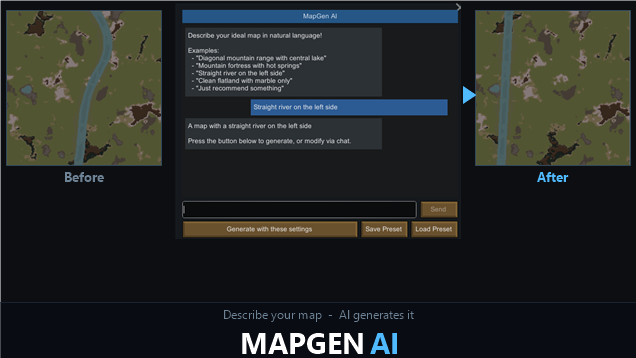
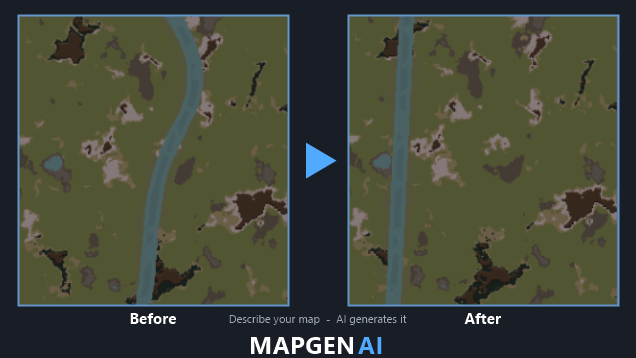
v1.0.1: Settings UI improvements
- Add scrollable model list in settings (max 300px height)
- Fix Gemini pagination to show 3.0/3.1 models
- Add OpenAI error message display when fetch fails
- Expand OpenAI model filter (o4-*, chatgpt-*)
- Gate DebugActions behind #if DEBUG (excluded from Release)
- Update Workshop description with Tips section
- Update Preview.png

diff --git a/mapgen_ai/Source/Core/TextToMapSettings.cs b/mapgen_ai/Source/Core/TextToMapSettings.cs
@@ -31,6 +31,9 @@ namespace MapGenAI
         private bool _showOpenAiList = false;
         private bool _showLocalList = false;
 
+        // 스크롤 위치
+        private Vector2 _modelScrollPos = Vector2.zero;
+
         private bool _isFetchingModels = false;
         private string _fetchStatus = "";
 
@@ -74,24 +77,24 @@ namespace MapGenAI
             listing.GapLine();
 
             if (activeProvider == LLMProvider.Gemini)
-                DrawProviderSection(listing, LLMProvider.Gemini,
+                DrawProviderSection(listing, inRect, LLMProvider.Gemini,
                     ref geminiApiKey, ko ? "Gemini API 키" : "Gemini API Key",
                     ref geminiModel, _geminiModels,
                     ref _showGeminiList);
 
             else if (activeProvider == LLMProvider.OpenAI)
-                DrawProviderSection(listing, LLMProvider.OpenAI,
+                DrawProviderSection(listing, inRect, LLMProvider.OpenAI,
                     ref openAiApiKey, ko ? "OpenAI API 키" : "OpenAI API Key",
                     ref openAiModel, _openAiModels,
                     ref _showOpenAiList);
 
             else if (activeProvider == LLMProvider.Local)
-                DrawLocalSection(listing);
+                DrawLocalSection(listing, inRect);
 
             listing.End();
         }
 
-        private void DrawProviderSection(Listing_Standard listing, LLMProvider provider,
+        private void DrawProviderSection(Listing_Standard listing, Rect inRect, LLMProvider provider,
             ref string apiKey, string apiKeyLabel,
             ref string currentModel, List<string> modelList,
             ref bool showList)
@@ -125,25 +128,48 @@ namespace MapGenAI
                 }
             }
 
-            // 목록 표시
+            // 목록 표시 (스크롤 영역)
             if (showList)
             {
                 if (_isFetchingModels)
                 {
                     listing.Label(L10n.IsKorean() ? "  불러오는 중..." : "  Loading...");
                 }
+                else if (modelList.Count == 0 && !string.IsNullOrEmpty(_fetchStatus))
+                {
+                    listing.Label("  " + _fetchStatus);
+                }
                 else if (modelList.Count > 0)
                 {
+                    float curY = listing.CurHeight;
+                    listing.End();
+
+                    float maxH = inRect.height - curY - 10f;
+                    float scrollH = Mathf.Min(maxH, 300f);
+                    float itemH = 30f;
+                    float contentH = modelList.Count * itemH;
+                    var outRect = new Rect(inRect.x, inRect.y + curY, inRect.width, scrollH);
+                    var viewRect = new Rect(0f, 0f, outRect.width - 16f, contentH);
+
+                    Widgets.BeginScrollView(outRect, ref _modelScrollPos, viewRect);
+                    float y = 0f;
                     foreach (var m in modelList)
                     {
-                        if (listing.RadioButton("  " + m, currentModel == m))
+                        var row = new Rect(0f, y, viewRect.width, itemH);
+                        if (Widgets.RadioButtonLabeled(row, "  " + m, currentModel == m))
                             currentModel = m;
+                        y += itemH;
                     }
+                    Widgets.EndScrollView();
+
+                    // listing 재개 (스크롤 영역 아래부터)
+                    var remainRect = new Rect(inRect.x, outRect.yMax, inRect.width, inRect.height - outRect.yMax + inRect.y);
+                    listing.Begin(remainRect);
                 }
             }
         }
 
-        private void DrawLocalSection(Listing_Standard listing)
+        private void DrawLocalSection(Listing_Standard listing, Rect inRect)
         {
             listing.Label(L10n.IsKorean() ? "로컬 서버 URL" : "Local server URL");
             localBaseUrl = listing.TextEntry(localBaseUrl);
@@ -152,9 +178,9 @@ namespace MapGenAI
             if (_isFetchingModels && _fetchedProvider == LLMProvider.Local)
                 btnText = L10n.IsKorean() ? "불러오는 중..." : "Loading...";
             else if (_showLocalList)
-                btnText = $"▲ 접기 (현재: {localModel})";
+                btnText = L10n.IsKorean() ? $"▲ 접기 (현재: {localModel})" : $"▲ Collapse (current: {localModel})";
             else if (_localModels.Count > 0)
-                btnText = $"▼ 모델 선택 (현재: {localModel})";
+                btnText = L10n.IsKorean() ? $"▼ 모델 선택 (현재: {localModel})" : $"▼ Select model (current: {localModel})";
             else
                 btnText = L10n.IsKorean() ? "모델 목록 불러오기" : "Fetch model list";
 
@@ -175,11 +201,34 @@ namespace MapGenAI
             if (_showLocalList)
             {
                 if (_isFetchingModels)
-                    listing.Label(L10n.IsKorean() ? "  불러오는 중..." : "  Loading...");
-                else foreach (var m in _localModels)
                 {
-                    if (listing.RadioButton("  " + m, localModel == m))
-                        localModel = m;
+                    listing.Label(L10n.IsKorean() ? "  불러오는 중..." : "  Loading...");
+                }
+                else if (_localModels.Count > 0)
+                {
+                    float curY = listing.CurHeight;
+                    listing.End();
+
+                    float maxH = inRect.height - curY - 10f;
+                    float scrollH = Mathf.Min(maxH, 300f);
+                    float itemH = 30f;
+                    float contentH = _localModels.Count * itemH;
+                    var outRect = new Rect(inRect.x, inRect.y + curY, inRect.width, scrollH);
+                    var viewRect = new Rect(0f, 0f, outRect.width - 16f, contentH);
+
+                    Widgets.BeginScrollView(outRect, ref _modelScrollPos, viewRect);
+                    float y = 0f;
+                    foreach (var m in _localModels)
+                    {
+                        var row = new Rect(0f, y, viewRect.width, itemH);
+                        if (Widgets.RadioButtonLabeled(row, "  " + m, localModel == m))
+                            localModel = m;
+                        y += itemH;
+                    }
+                    Widgets.EndScrollView();
+
+                    var remainRect = new Rect(inRect.x, outRect.yMax, inRect.width, inRect.height - outRect.yMax + inRect.y);
+                    listing.Begin(remainRect);
                 }
             }
         }
@@ -236,22 +285,30 @@ namespace MapGenAI
 
         private async Task<List<string>> FetchGeminiModels()
         {
-            var url = $"https://generativelanguage.googleapis.com/v1beta/models?key={geminiApiKey}";
-            var response = await Http.GetStringAsync(url);
             var models = new List<string>();
-            var parts = response.Split('"');
-            for (int i = 0; i < parts.Length - 2; i++)
+            string pageToken = null;
+            do
             {
-                if (parts[i] == "name" && parts[i + 2].StartsWith("models/"))
+                var url = $"https://generativelanguage.googleapis.com/v1beta/models?key={geminiApiKey}&pageSize=100";
+                if (pageToken != null) url += $"&pageToken={pageToken}";
+                var response = await Http.GetStringAsync(url);
+                var parts = response.Split('"');
+                pageToken = null;
+                for (int i = 0; i < parts.Length - 2; i++)
                 {
-                    var name = parts[i + 2].Substring("models/".Length);
-                    if ((name.StartsWith("gemini-") || name.StartsWith("gemma-"))
-                        && !name.Contains("embedding") && !name.Contains("imagen")
-                        && !name.Contains("veo") && !name.Contains("tts")
-                        && !name.Contains("audio"))
-                        models.Add(name);
+                    if (parts[i] == "name" && parts[i + 2].StartsWith("models/"))
+                    {
+                        var name = parts[i + 2].Substring("models/".Length);
+                        if ((name.StartsWith("gemini-") || name.StartsWith("gemma-"))
+                            && !name.Contains("embedding") && !name.Contains("imagen")
+                            && !name.Contains("veo") && !name.Contains("tts")
+                            && !name.Contains("audio"))
+                            models.Add(name);
+                    }
+                    if (parts[i] == "nextPageToken")
+                        pageToken = parts[i + 2];
                 }
-            }
+            } while (pageToken != null);
             return models;
         }
 
@@ -264,8 +321,13 @@ namespace MapGenAI
             var models = new List<string>();
             var parts = json.Split('"');
             for (int i = 0; i < parts.Length - 2; i++)
-                if (parts[i] == "id" && (parts[i + 2].StartsWith("gpt-") || parts[i + 2].StartsWith("o1") || parts[i + 2].StartsWith("o3")))
-                    models.Add(parts[i + 2]);
+                if (parts[i] == "id")
+                {
+                    var id = parts[i + 2];
+                    if (id.StartsWith("gpt-") || id.StartsWith("o1") || id.StartsWith("o3") || id.StartsWith("o4")
+                        || id.StartsWith("chatgpt-"))
+                        models.Add(id);
+                }
             return models.OrderBy(m => m).ToList();
         }
 

diff --git a/mapgen_ai/Source/Patches/WorldInspectPane_Patch.cs b/mapgen_ai/Source/Patches/WorldInspectPane_Patch.cs
@@ -224,7 +224,7 @@ namespace MapGenAI.Patches
         }
     }
 
-    /// <summary>[DebugAction] 인게임 빠른 테스트 버튼</summary>
+#if DEBUG
     public static class TextToMap_DebugActions
     {
         [DebugAction("TextToMap", "대화창 열기", allowedGameStates = AllowedGameStates.Playing)]
@@ -242,11 +242,11 @@ namespace MapGenAI.Patches
                 var response = await client.SendChatAsync(
                     new System.Collections.Generic.List<LLM.ChatMessage>
                     {
-                        new LLM.ChatMessage("user", "안녕하세요, API 연결 테스트입니다. 한 문장으로 응답해주세요.")
+                        new LLM.ChatMessage("user", "API connection test. Reply in one sentence.")
                     },
-                    "당신은 RimWorld 맵 생성 도우미입니다.");
+                    "You are a RimWorld map generation assistant.");
                 LongEventHandler.ExecuteWhenFinished(() =>
-                    Log.Message($"[MapGenAI] API 응답: {response}"));
+                    Log.Message($"[MapGenAI] API response: {response}"));
             });
         }
 
@@ -255,20 +255,20 @@ namespace MapGenAI.Patches
         {
             if (!MapGen.MapGenParams.HasParams)
             {
-                Log.Message("[MapGenAI] 저장된 파라미터 없음");
+                Log.Message("[MapGenAI] No params stored");
                 return;
             }
-            Log.Message($"[MapGenAI] 파라미터: 언덕={MapGen.MapGenParams.Hills}, " +
-                        $"나무={MapGen.MapGenParams.VegetationDensity}, " +
-                        $"강={MapGen.MapGenParams.HasRiver}, " +
-                        $"도로={MapGen.MapGenParams.HasRoads}");
+            Log.Message($"[MapGenAI] Params: hills={MapGen.MapGenParams.Hills}, " +
+                        $"veg={MapGen.MapGenParams.VegetationDensity}, " +
+                        $"shapes={MapGen.MapGenParams.ElevationShapes.Count}");
         }
 
         [DebugAction("TextToMap", "미리보기 캐시 초기화", allowedGameStates = AllowedGameStates.Playing)]
         static void ClearPreviewCache()
         {
             MapPreviewIntegration.ClearCache();
-            Log.Message("[MapGenAI] 미리보기 캐시 초기화 완료");
+            Log.Message("[MapGenAI] Preview cache cleared");
         }
     }
+#endif
 }